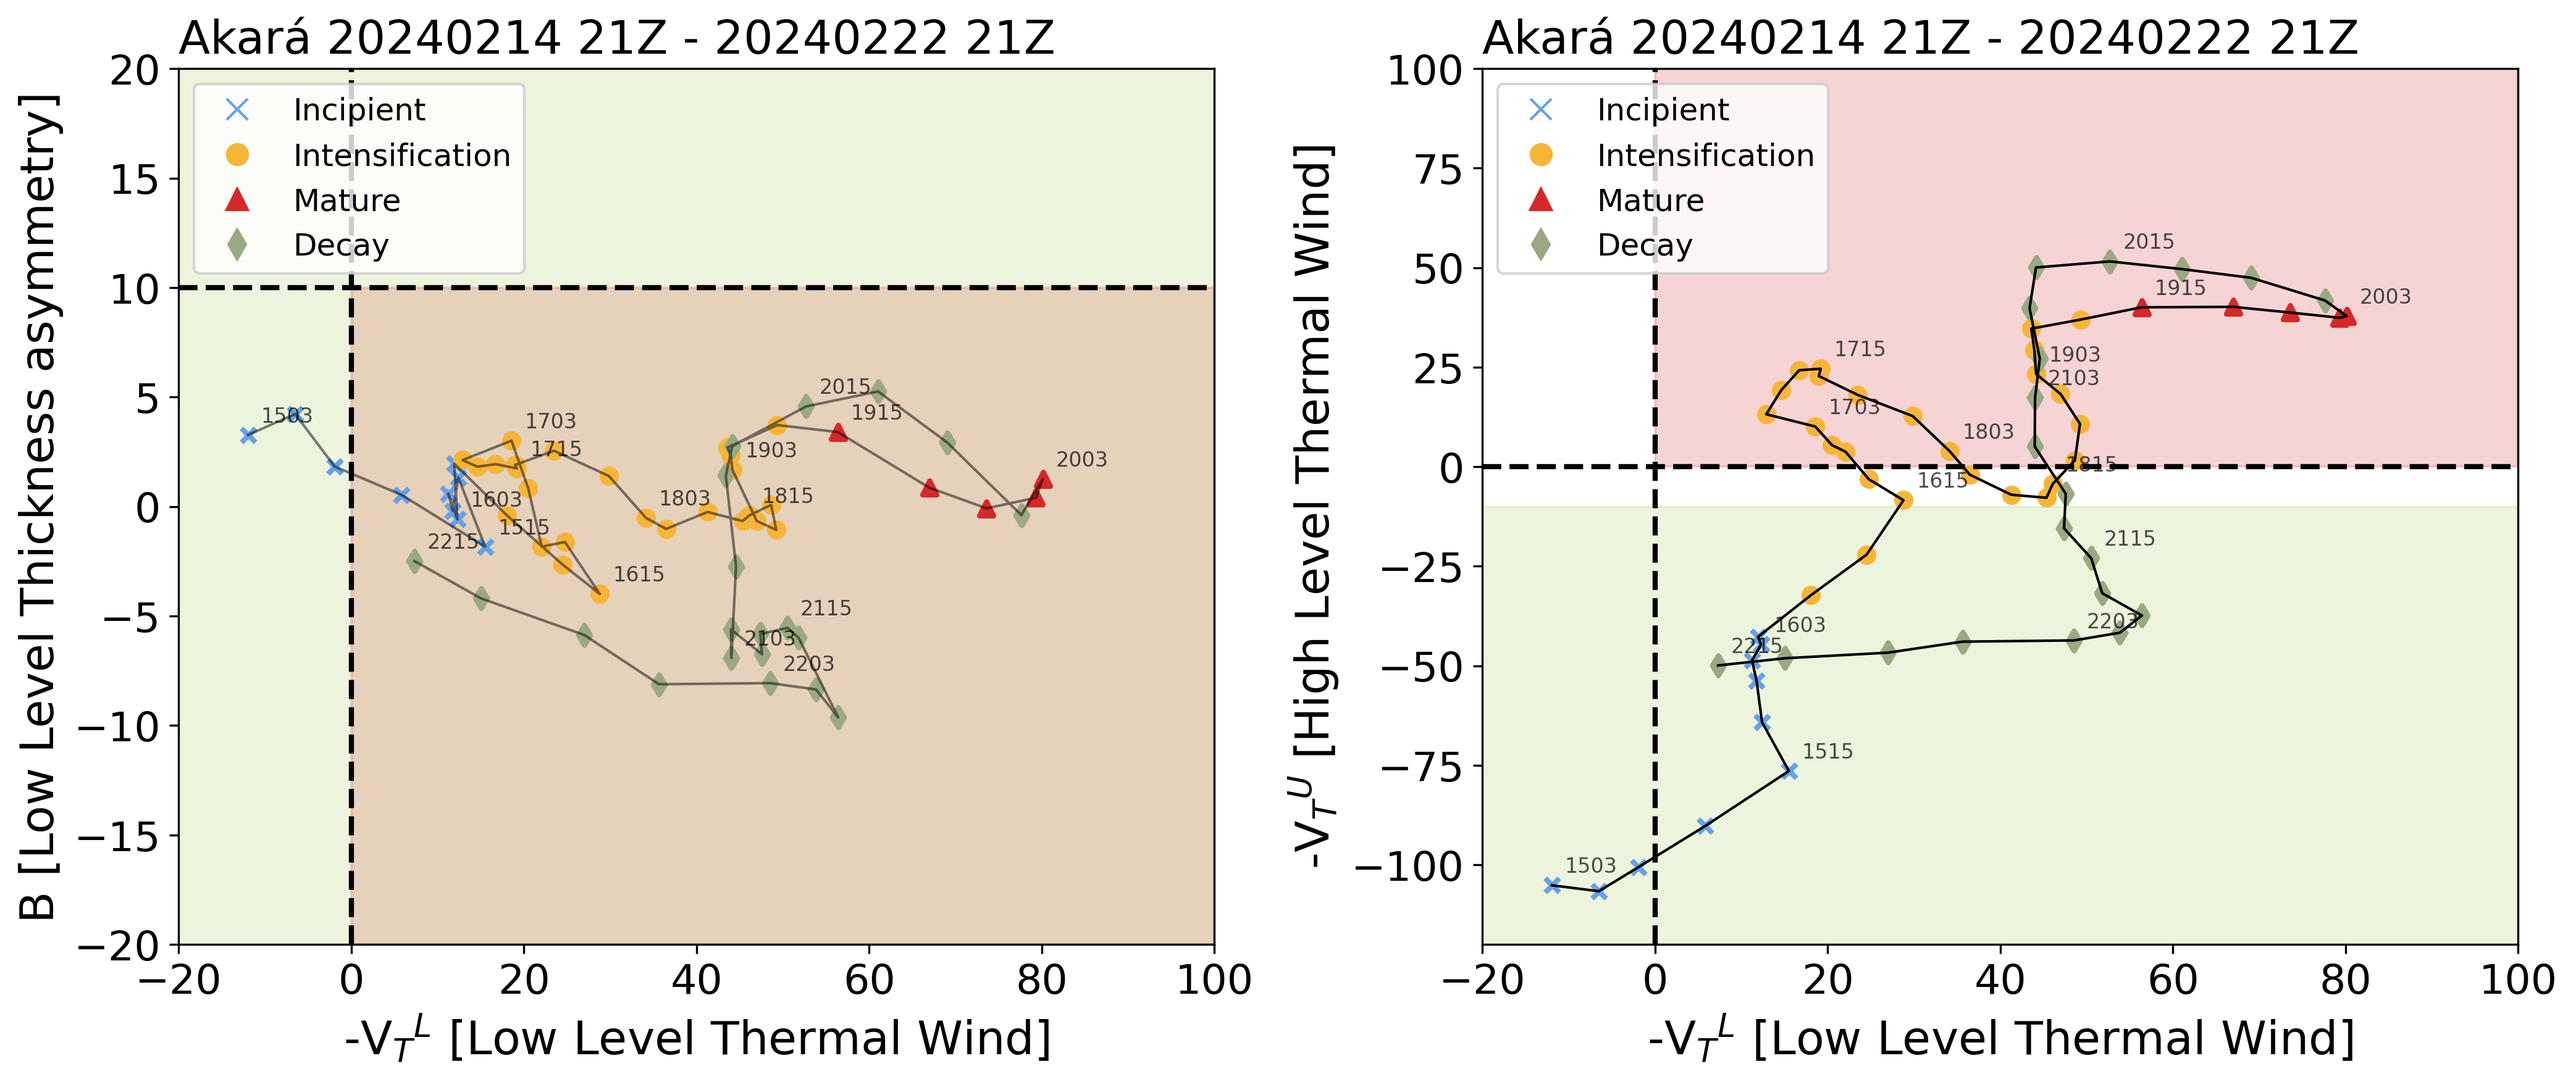
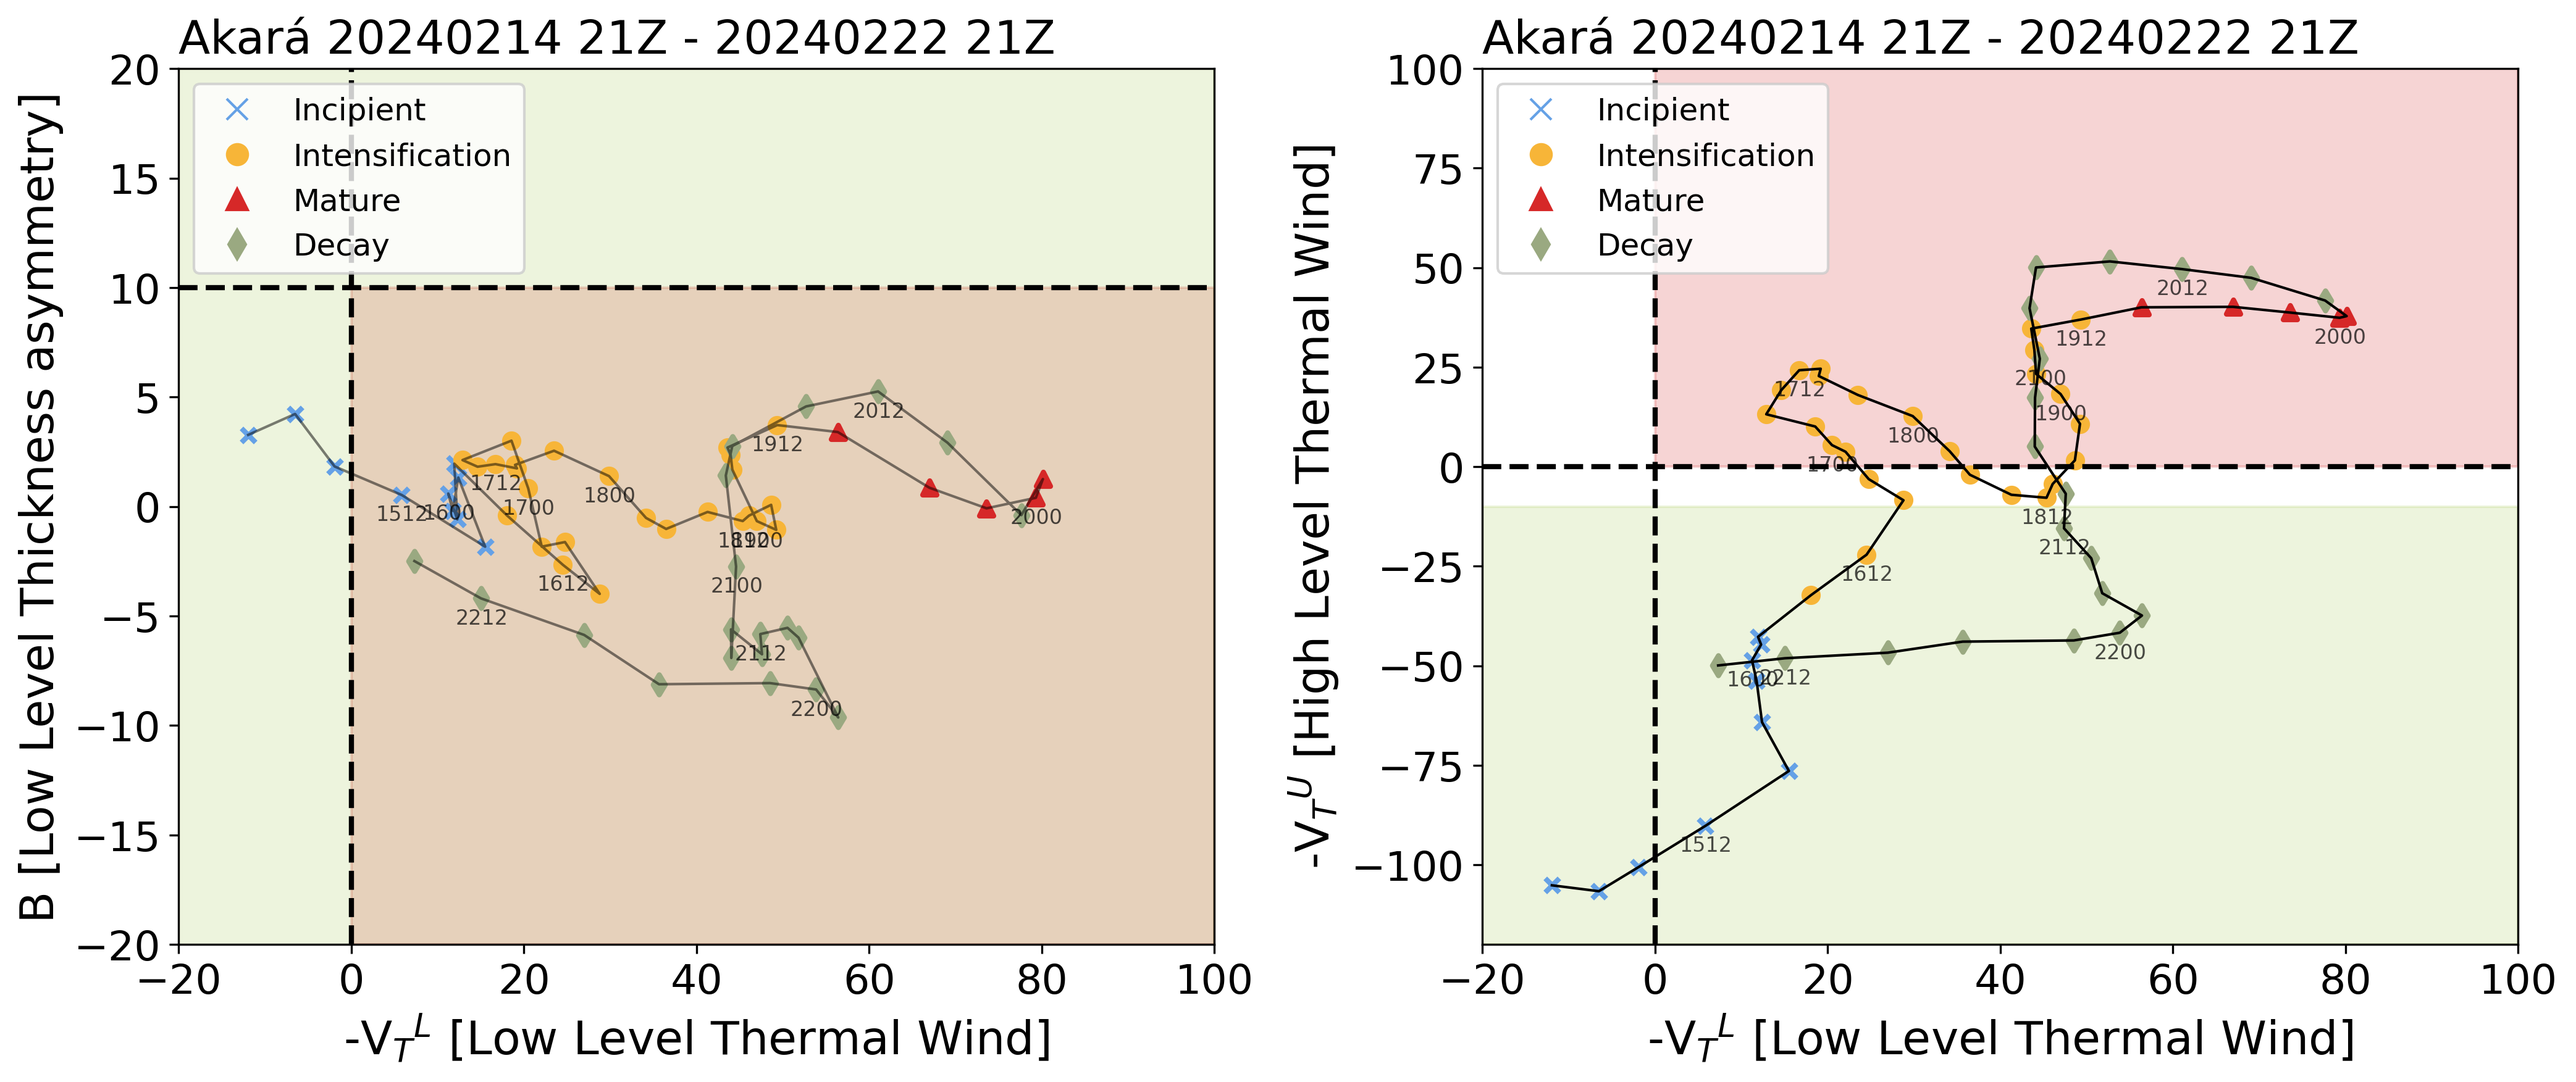
atualiazção

diff --git a/Akara/CPS/cria_cps.py b/Akara/CPS/cria_cps.py
@@ -46,11 +46,12 @@ for idx, row in enumerate(cps_filtered.iterrows()):
         legend_items[row['phase']] = mlines.Line2D([], [], color=row['color'],
                                                    marker=row['symbol'], linestyle='None',
                                                    markersize=8, label=row['phase'])
-    # Adicionar rótulos de 2 em 2
-    if idx % 4 == 0:  # Verifica se o índice é par
+    # Adicionar rótulos de 2 em 2 a partir do quarto ponto
+    if idx >= 3 and (idx - 3) % 4 == 0:  # Começa no quarto ponto e segue a lógica de 4 em 4
         axes[0].annotate(row['time'][6:-2], (row['VTL_media_movel'], row['B_media_movel']),
                          fontsize=8, color='black', alpha=0.7,
-                         xytext=(5, 5), textcoords='offset points')
+                         xytext=(-10, -10), textcoords='offset points')
+
 
 
 axes[0].axhline(10, color='black', linewidth=2, linestyle='--')  # Linha horizontal
@@ -83,11 +84,12 @@ for idx, row in enumerate(cps_filtered.iterrows()):
         legend_items[row['phase']] = mlines.Line2D([], [], color=row['color'],
                                                    marker=row['symbol'], linestyle='None',
                                                    markersize=8, label=row['phase'])
-    # Adicionar rótulos de 2 em 2
-    if idx % 4 == 0:  # Verifica se o índice é par
+    # Adicionar rótulos de 2 em 2 a partir do quarto ponto
+    if idx >= 3 and (idx - 3) % 4 == 0:  # Começa no quarto ponto e segue a lógica de 4 em 4
         axes[1].annotate(row['time'][6:-2], (row['VTL_media_movel'], row['VTU_media_movel']),
                          fontsize=8, color='black', alpha=0.7,
-                         xytext=(5, 5), textcoords='offset points')
+                         xytext=(-10, -10), textcoords='offset points')
+
 
 axes[1].axhline(0, color='black', linewidth=2, linestyle='--')  # Linha horizontal
 axes[1].axvline(0, color='black', linewidth=2, linestyle='--')  # Linha vertical
